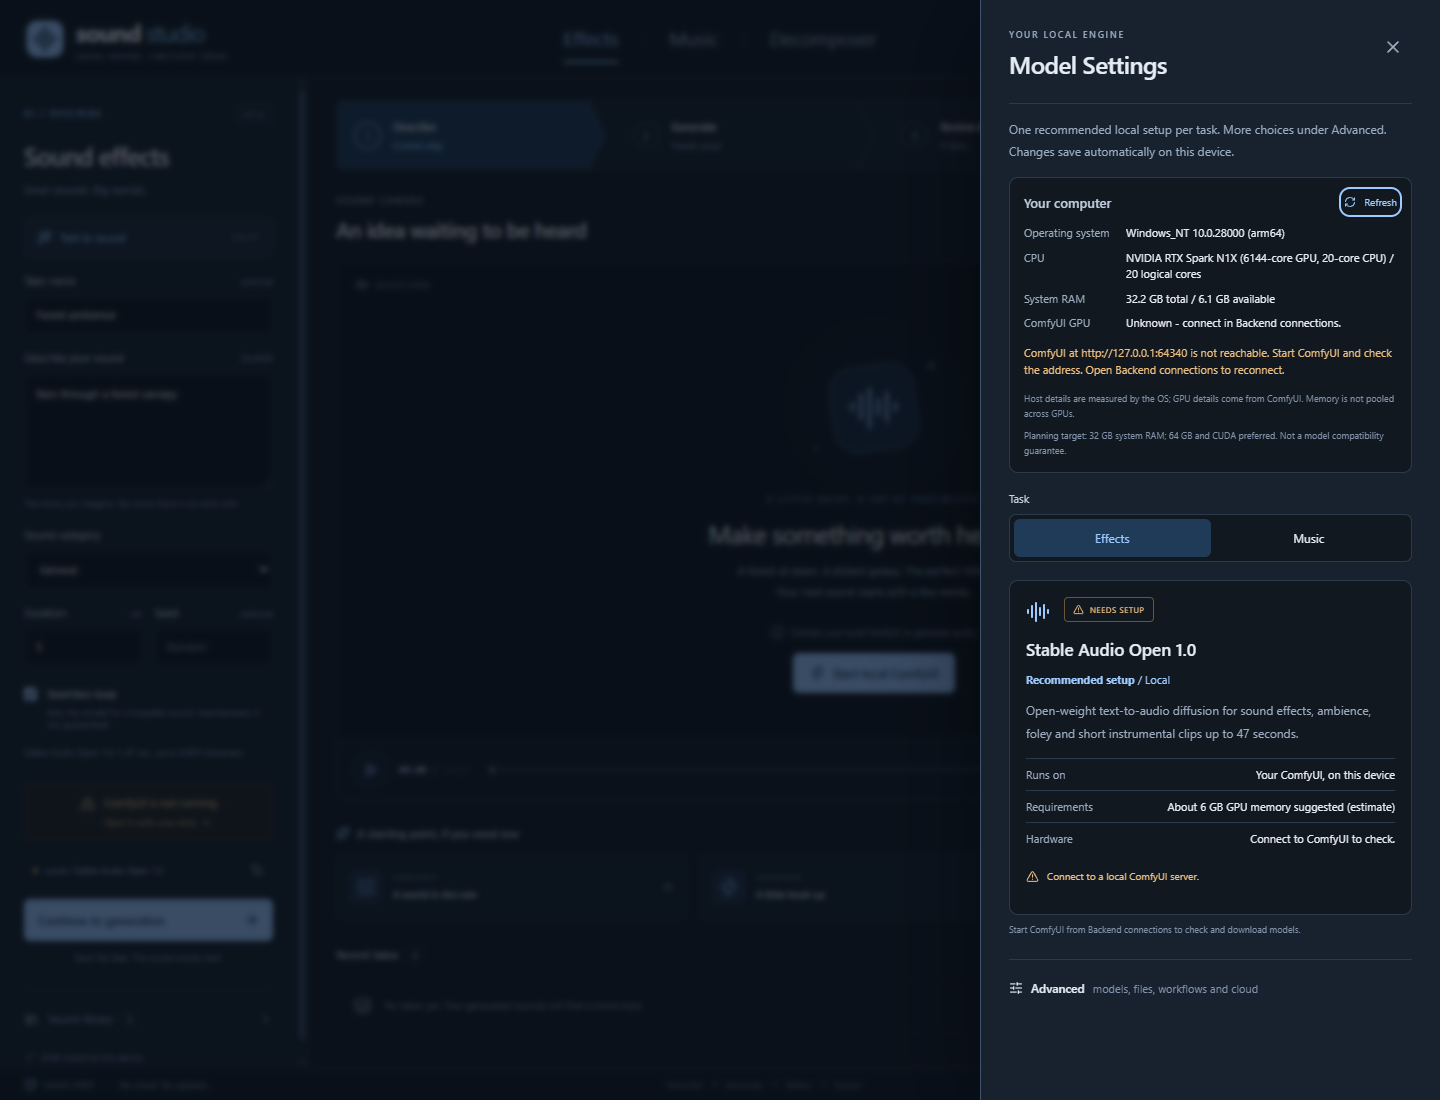
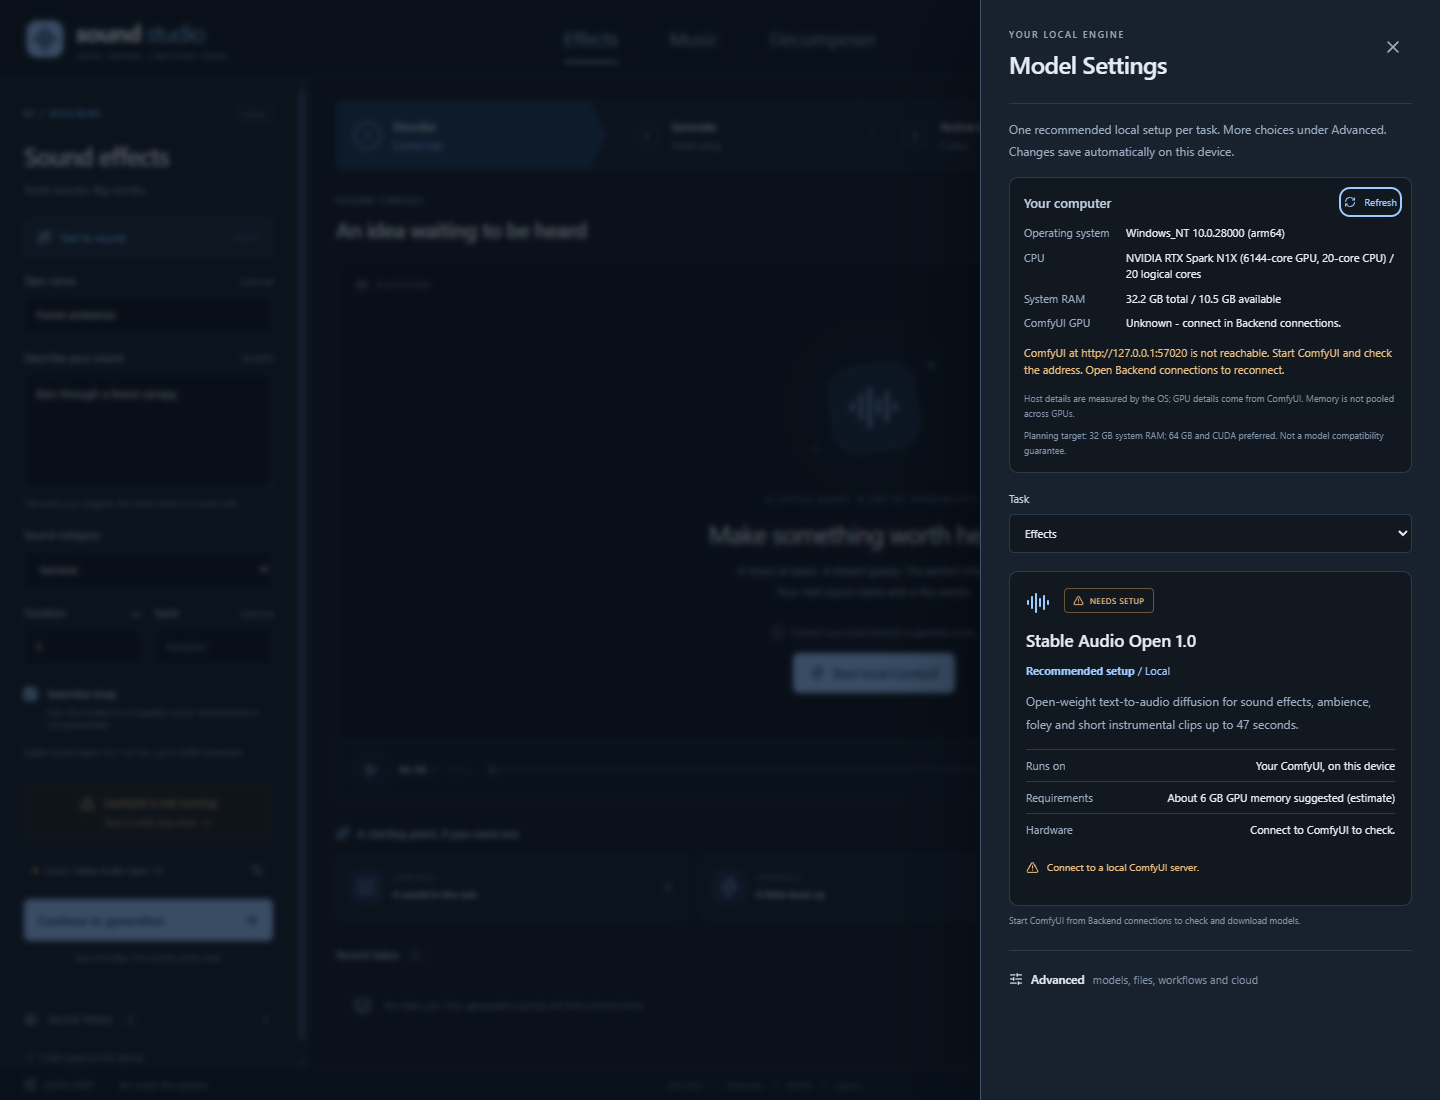
Use a dropdown for the model settings task selector

Changed region(s): [[0.6875, 0.4636, 0.9688, 0.8036], [0.6875, 0.8345, 0.9062, 0.9273], [0.8438, 0.2473, 0.875, 0.2782]]

diff --git a/src/renderer/ModelSettings.tsx b/src/renderer/ModelSettings.tsx
@@ -32,9 +32,14 @@ export function ModelSettings({ backend, workspace, onWorkspace }: { backend: Ba
   return <>
     <p className="dialog-intro model-intro">One recommended local setup per task. More choices under Advanced. Changes save automatically on this device.</p>
     <YourComputer backend={backend} />
-    <p className="field-label">Task</p>
-    <div className="segmented" aria-label="Model workspace">{(['effects', 'music'] as const).map(tab =>
-      <button key={tab} aria-pressed={workspace === tab} onClick={() => onWorkspace(tab)}>{tab === 'effects' ? 'Effects' : 'Music'}</button>)}</div>
+    <label className="field-label" htmlFor="model-task">Task</label>
+    <select id="model-task" value={workspace} onChange={event => {
+      const task = event.target.value
+      if (task === 'effects' || task === 'music') onWorkspace(task)
+    }}>
+      <option value="effects">Effects</option>
+      <option value="music">Music</option>
+    </select>
     {backend.settingsError && <p className="warning-text" role="alert"><AlertTriangle size={14} /> {backend.settingsError}</p>}
 
     <div className="model-card">

diff --git a/GUIDE.md b/GUIDE.md
@@ -89,6 +89,8 @@ Sound Studio only stops a ComfyUI it started itself. Console output goes to `log
 
 Effects and Music each have their own model choice; the Decomposer has none yet and shows **Analysis models / Not connected**, and Model Settings opened from it shows Effects. The defaults are Stable Audio Open 1.0 for Effects and ACE-Step 1.5 Turbo for Music. Stable Audio Open plus T5 also covers short instrumental music (1-47 seconds, no lyrics or key control), so you can reuse it in Music instead of installing another model if that meets your needs. ACE-Step retains lyrics, tempo, key and longer songs; its approximately 12 GB GPU-memory guidance is higher than Stable Audio Open's 6 GB.
 
+Choose **Effects** or **Music** from the **Task** dropdown in Model Settings. This changes only which task's settings you are viewing, not the active workspace or its draft.
+
 **Your computer** is shown without expanding Advanced: OS/architecture, CPU and total/available system RAM measured by the desktop app, separately from each GPU's name and total/free memory reported by ComfyUI. **Refresh** remeasures the host and refreshes an already connected backend; it never connects a disconnected backend or changes saved settings. Unknown or invalid memory stays unknown. CPU devices are not reported as GPUs, GPU memory is never added across devices, and unified/shared memory is not treated as dedicated VRAM. The renderer-only browser preview cannot measure host hardware and says so.
 
 The shared planning target is **32 GB system RAM**, with **64 GB and CUDA preferred**, not a promise that every local model fits. GPU memory, model files, nodes and architecture still matter. The current model card shows **Recommended setup** or **Your saved choice**, Local/Remote execution, requirements, observed fit and readiness. Remote warnings, setup issues, download progress/cancellation and saving errors remain outside Advanced. Settings save automatically. **Use recommended setup** restores only the selected task's model and Automatic file choices; it leaves the other task, backend address, cloud consent/key and workspace drafts untouched. It does not download or generate anything.
